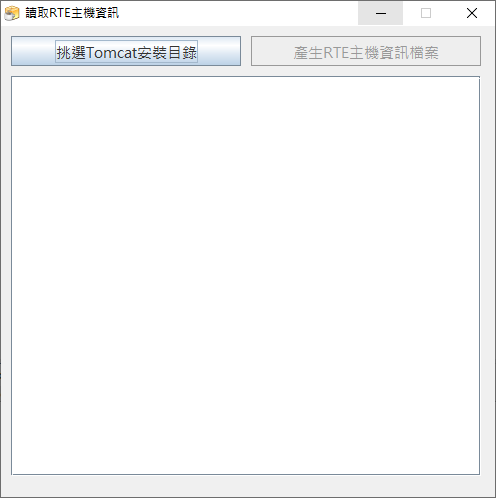
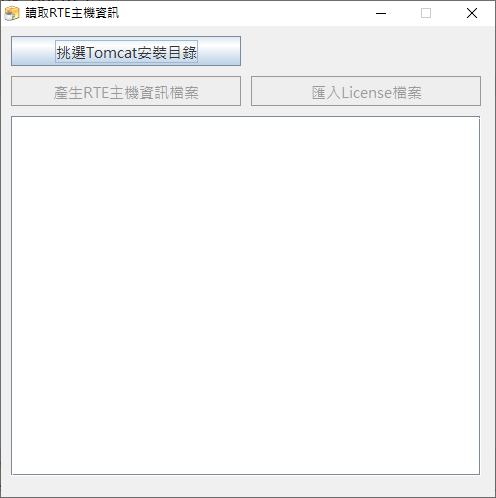
#9213 3-1 SA修正

diff --git a/8.10.2/RTE/CUSTOM/AUTH/README.md b/8.10.2/RTE/CUSTOM/AUTH/README.md
@@ -31,8 +31,19 @@
     * 點擊後依據讀取到的 ArcareEng.xml 進行以下動作
       * 讀取主機資訊
       * 讀取站台資料庫資訊並產生站台授權檔案
+        * 授權類型固定為同時連線數
+        * 授權人數固定為300
       * 取得各企業系統資訊並產生系統授權檔案
+        * 授權類型固定為同時連線數
+        * 授權人數固定為300
       * 將產生的檔案壓縮成zip檔案
+    * 除致能條件 = 是否已正確讀取到 ArareEng.xml 檔案
+      * 有讀取到檔案時，本按鈕致能
+      * 尚未讀取到時，本按鈕除能
+  * 按鈕.匯入License檔案
+    * 點擊後進行以下動作
+      * 跳出檔案總管，挑選授權中心客製程式產生的授權壓縮檔案
+      * 更新授權資訊到站台資料庫中
     * 除致能條件 = 是否已正確讀取到 ArareEng.xml 檔案
       * 有讀取到檔案時，本按鈕致能
       * 尚未讀取到時，本按鈕除能
@@ -74,11 +85,12 @@
     * 除致能條件 = 挑選RTE主機授權壓縮檔
       * 有讀取到檔案時，本按鈕除能
       * 尚未讀取到時，本按鈕致能
-  * 按鈕.產生RTE主機資訊檔案
+  * 按鈕.產生離線授權啟用檔案
     * 點擊後依據讀取到的授權中心網站設定檔案進行以下動作
-      * 讀取主機資訊
-      * 讀取站台資料庫資訊並產生站台授權檔案
-      * 取得各企業系統資訊並產生系統授權檔案
+      * 產生授權紀錄
+      * 產生站台離線授權檔案
+      * 產生各企業系統離線授權檔案
+      * 將上述檔案壓縮成ZIP檔案
     * 除致能條件 = 是否已正確讀取到授權中心網站設定檔案並且讀取到RTE主機授權壓縮檔
       * 有讀取到檔案時，本按鈕致能
       * 尚未讀取到時，本按鈕除能
